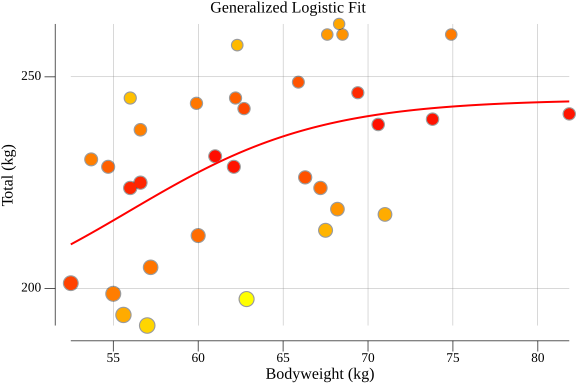
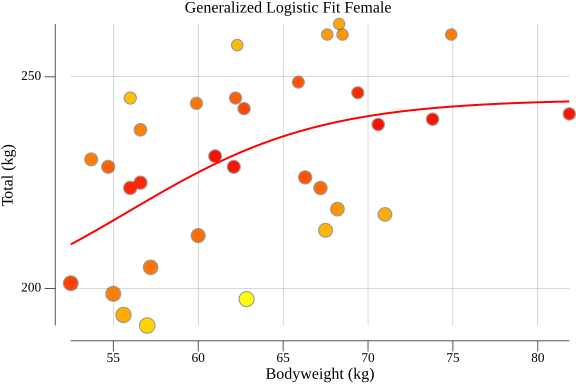
feat: change graph title

Changed region(s): [[0.3125, 0.0, 0.6875, 0.0625]]

diff --git a/examples/main.go b/examples/main.go
@@ -31,11 +31,11 @@ func main() {
 	}
 
 	// plot result
-	if err := ris.PlotFitGraph(maleData, maleFit, "male.png"); err != nil {
+	if err := ris.PlotFitGraph(maleData, maleFit, "Generalized Logistic Fit Male", "male.png"); err != nil {
 		log.Fatal(err)
 	}
 	// plot result
-	if err := ris.PlotFitGraph(femaleData, femaleFit, "female.png"); err != nil {
+	if err := ris.PlotFitGraph(femaleData, femaleFit, "Generalized Logistic Fit Female", "female.png"); err != nil {
 		log.Fatal(err)
 	}
 

diff --git a/lib/plot.go b/lib/plot.go
@@ -14,9 +14,9 @@ import (
 
 // PlotFitGraph plots the datapoints and the fitted generalized logistic curve.
 //nolint:funlen // TBD
-func PlotFitGraph(data []DataPoint, result FitResult, filename string) error {
+func PlotFitGraph(data []DataPoint, result FitResult, title, filename string) error {
 	p := plot.New()
-	p.Title.Text = "Generalized Logistic Fit"
+	p.Title.Text = title
 	p.X.Label.Text = "Bodyweight (kg)"
 	p.Y.Label.Text = "Total (kg)"
 	p.Add(plotter.NewGrid())
